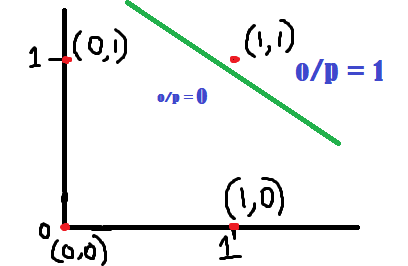
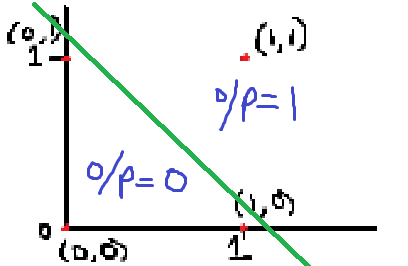
Update README.md and add Assets

diff --git a/README.md b/README.md
@@ -6,9 +6,54 @@ This repo will contain all code that I write as I learn the basics and intermedi
 The perceptron is one of the old but basic unit of a neaural network. The algorithm was developed first by Frank Rosenblatt and was made to be a linear classifier between two classes.
 i.e, it can predict whether or not an element belongs to one class or another after it is trained to do so.
 
-The basic idea is that while training, the perceptron adjusts its knobs through mathematical equations to adjust a line that separates the two classes. Consider it as a see-saw,
-swinging up and down. 
+The basic idea is that while training, the perceptron adjusts its knobs through mathematical equations to adjust a line that separates the two classes. Consider it as a see-saw in space,
+swinging up and down, changing its slope, all the while being displaced. 
 
 for eg., consider the OR gate used in logical circuits.
+Let X and Y be the inputs.
 
 ![OR Truth Table](/assets/OR.png)
+
+Picture the inputs on a 2D plane like so:
+
+![Inputs Graph](/assets/Inputs.png)
+
+An OR gate produces linearly classifiable outputs. The output of the points above the line of separation is 1 and for those below, the output is 0.
+This is the desired target of our perceptron:
+
+![OR Graph](/assets/OrTrained.png)
+
+But our perceptron does not know this. It starts with the line of separation at a random point on the 2D plane with random orientations.
+
+![Random Line](/assets/Random.png)
+
+As we adjust the knobs (weights and biases) of the perceptron, we can reach the desired target.
+
+![Training Graphs](/assets/Training.png)
+
+This is the basic visualization of how a perceptron learns.
+So how do the knobs get adjusted? It's the work of some savvy Maths which is beyond the scope of this text file. 
+
+Now we can do the same with an AND gate since it also produces linearly seperable outputs.
+
+![AND Graph](/assets/AndTrained.png)
+
+.
+.
+.
+
+So far, we've seen some great things from a single perceptron but it has some limitations. It cannot classify linearly non-seperable outputs as in the case of an XOR gate.
+If you try training a single perceptron to classify XOR outputs, it will produce erroneous results. Why? Lets see:
+
+![XOR Gate](/assets/XOR.png)
+
+We can deduce that for separating the outputs we need such a configuration:
+
+![XOR Graph](/assets/XorTrained.png)
+
+So we need two lines(see-saws) to classify outputs for XOR. This means that we need one more perceptron.
+That's where the 'network' in Neural Networks comes from! It's a fascinating topic!
+
+
+
+
